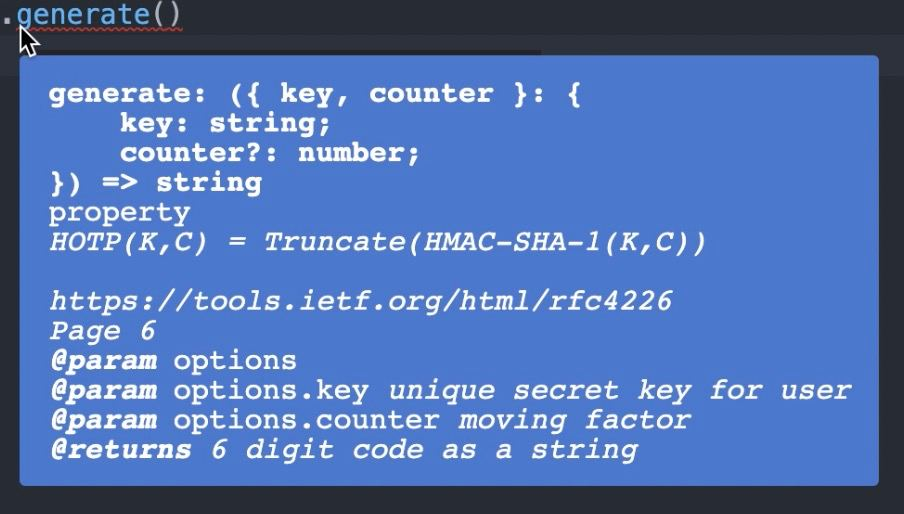
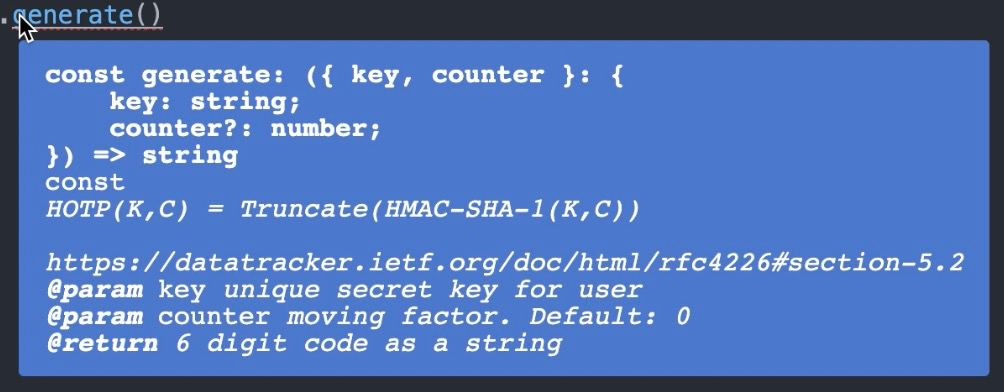
some v2 improvements

Changed region(s): [[0.0, 0.0, 0.9912, 0.9796]]

diff --git a/lib/hotp.ts b/lib/hotp.ts
@@ -1,10 +1,10 @@
 import { createHmac, timingSafeEqual } from 'crypto';
 
 /**
- * https://tools.ietf.org/html/rfc4226 page 5
+ * https://datatracker.ietf.org/doc/html/rfc4226#section-5.1
  *
- * @param   8-byte counter value, the moving factor
- * @returns buffer
+ * @param  8-byte counter value, the moving factor
+ * @return buffer
  */
 const calcCounter = (value: number) => {
   // <Buffer 00 00 00 00 00 00 00 00>
@@ -18,15 +18,13 @@ const calcCounter = (value: number) => {
 /**
  * HOTP(K,C) = Truncate(HMAC-SHA-1(K,C))
  *
- * https://tools.ietf.org/html/rfc4226
- * Page 6
+ * https://datatracker.ietf.org/doc/html/rfc4226#section-5.2
  *
- * @param options
- * @param options.key unique secret key for user
- * @param [options.counter=0] moving factor
- * @returns 6 digit code as a string
+ * @param key     unique secret key for user
+ * @param counter moving factor. Default: 0
+ * @return 6 digit code as a string
  */
-export const generateHOTP = ({ key, counter = 0 }: {
+export const generate = ({ key, counter = 0 }: {
   key: string,
   counter?: number,
 }) => {
@@ -54,15 +52,19 @@ export const generateHOTP = ({ key, counter = 0 }: {
 };
 
 /**
- * @param options
- * @param options.token       code, provided by user
- * @param options.key         unique secret key for user
- * @param [options.window=1]  counter values window
- * @param [options.counter=0] moving factor
- * @returns number or null
+ * https://datatracker.ietf.org/doc/html/rfc4226#section-7.2
+ *
+ * @param token   code, provided by user
+ * @param key     unique secret key for user
+ * @param window  counter values window. Default: 1
+ * @param counter moving factor. Default: 0
+ * @return null if nothing found or number between -window to +window if same code in steps found
  */
-export const verifyHOTP = ({
-  token, key, window = 1, counter = 0,
+export const validate = ({
+  token,
+  key,
+  window = 1,
+  counter = 0,
 }: {
   token: string,
   key: string,
@@ -74,7 +76,7 @@ export const verifyHOTP = ({
   for (let i = counter - window; i <= counter + window; ++i) {
     redefCounter = i;
 
-    const generateToken = generateHOTP({ key, counter: redefCounter });
+    const generateToken = generate({ key, counter: redefCounter });
 
     if (timingSafeEqual(Buffer.from(token), Buffer.from(generateToken))) {
       return i - counter;

diff --git a/lib/totp.d.ts b/lib/totp.d.ts
@@ -1,5 +1,3 @@
-import * as HOTP from './hotp';
-
 /**
  * TOTP = HOTP(K, T)
  *
@@ -9,18 +7,10 @@ import * as HOTP from './hotp';
  * @param time time-step in seconds (default recomended). Default: 30
  * @return 6 digit code as a string
  */
-export const generate = ({ key, time = 30 }: {
-  key: string,
-  time?: number,
-}) => {
-  const result = HOTP.generate({
-    key,
-    counter: Math.floor(Date.now() / 1000 / time),
-  });
-
-  return result;
-};
-
+export declare const generate: ({ key, time }: {
+    key: string;
+    time?: number;
+}) => string;
 /**
  * https://datatracker.ietf.org/doc/html/rfc6238#section-5.2
  *
@@ -30,20 +20,9 @@ export const generate = ({ key, time = 30 }: {
  * @param  time   time-step in seconds (default is recomended). Default: 30
  * @return null if nothing found or number between -window to +window if same code in steps found
  */
-export const validate = ({
-  token, key, window = 1, time = 30,
-}: {
-  token: string,
-  key: string,
-  window?: number,
-  time?: number,
-}): number | null => {
-  const result = HOTP.validate({
-    token,
-    key,
-    window,
-    counter: Math.floor(Date.now() / 1000 / time),
-  });
-
-  return result;
-};
+export declare const validate: ({ token, key, window, time, }: {
+    token: string;
+    key: string;
+    window?: number;
+    time?: number;
+}) => number | null;

diff --git a/lib/hotp.d.ts b/lib/hotp.d.ts
@@ -1,0 +1,28 @@
+/**
+ * HOTP(K,C) = Truncate(HMAC-SHA-1(K,C))
+ *
+ * https://datatracker.ietf.org/doc/html/rfc4226#section-5.2
+ *
+ * @param key     unique secret key for user
+ * @param counter moving factor. Default: 0
+ * @return 6 digit code as a string
+ */
+export declare const generate: ({ key, counter }: {
+    key: string;
+    counter?: number;
+}) => string;
+/**
+ * https://datatracker.ietf.org/doc/html/rfc4226#section-7.2
+ *
+ * @param token   code, provided by user
+ * @param key     unique secret key for user
+ * @param window  counter values window. Default: 1
+ * @param counter moving factor. Default: 0
+ * @return null if nothing found or number between -window to +window if same code in steps found
+ */
+export declare const validate: ({ token, key, window, counter, }: {
+    token: string;
+    key: string;
+    window?: number;
+    counter?: number;
+}) => number | null;

diff --git a/lib/base32.ts b/lib/base32.ts
@@ -1,9 +1,10 @@
 /**
  * Base32 encoder without padding, thanks @LinusU
- * @param   secret
- * @returns base32 encoded secret
+ * @param   secret text to be encoded
+ * @return base32 encoded secret
  */
-export default (secret: string) => {
+// eslint-disable-next-line
+export const base32 = (secret: string) => {
   const alphabet = 'ABCDEFGHIJKLMNOPQRSTUVWXYZ234567';
 
   const buf = Buffer.from(secret);

diff --git a/lib/base32.d.ts b/lib/base32.d.ts
@@ -1,0 +1,6 @@
+/**
+ * Base32 encoder without padding, thanks @LinusU
+ * @param   secret text to be encoded
+ * @return base32 encoded secret
+ */
+export declare const base32: (secret: string) => string;

diff --git a/README.md b/README.md
@@ -1,4 +1,7 @@
-[<img src="https://img.shields.io/npm/v/2fa-hotp-totp">](https://www.npmjs.com/package/2fa-hotp-totp) [<img src="https://img.shields.io/npm/l/2fa-hotp-totp">](https://github.com/TABmk/2fa-hotp-totp/blob/master/LICENSE) [<img src="https://img.shields.io/npm/dm/2fa-hotp-totp">](https://www.npmjs.com/package/2fa-hotp-totp) [<img src="https://img.shields.io/bundlephobia/minzip/2fa-hotp-totp">](https://www.npmjs.com/package/2fa-hotp-totp)
+[<img src="https://img.shields.io/npm/v/2fa-hotp-totp">](https://www.npmjs.com/package/2fa-hotp-totp) [<img src="https://img.shields.io/npm/l/2fa-hotp-totp">](https://github.com/TABmk/2fa-hotp-totp/blob/master/LICENSE) <img src="https://badgen.net/npm/types/2fa-hotp-totp">
+
+<img src="https://badgen.net/npm/dt/2fa-hotp-totp">
+<img src="https://badgen.net/npm/dm/2fa-hotp-totp">
 
 __Help__ [<img src="https://img.shields.io/github/issues/tabmk/2fa-hotp-totp">](https://github.com/TABmk/2fa-hotp-totp/issues?q=is%3Aopen+is%3Aissue) [<img src="https://img.shields.io/github/issues-pr/tabmk/2fa-hotp-totp">](https://github.com/TABmk/2fa-hotp-totp/pulls?q=is%3Aopen+is%3Apr)
 
@@ -12,15 +15,17 @@ __Help__ [<img src="https://img.shields.io/github/issues/tabmk/2fa-hotp-totp">](
 
 # __2FA-HOTP-TOTP__
 
-Zero-dependency, **<1kB gzipped** [<img src="https://img.shields.io/bundlephobia/minzip/2fa-hotp-totp">](https://www.npmjs.com/package/2fa-hotp-totp)
+Zero-dependency <img src="https://badgen.net/bundlephobia/dependency-count/2fa-hotp-totp">
+
+ v2 and still __<1kB gzipped__ <img src="https://badgen.net/bundlephobia/minzip/2fa-hotp-totp">
 
 My implementation of 2FA HOTP/TOTP algorithms in TypeScript + base32 encoder for creating links for authenticator programs like [Google Authenticator](https://play.google.com/store/apps/details?id=com.google.android.apps.authenticator2)
 
 [Read more](https://github.com/google/google-authenticator/wiki/Key-Uri-Format) about `otpauth://` links
 ###### Specifications:
-- HOTP - [RFC 4226](https://tools.ietf.org/html/rfc4226)
-- TOTP - [RFC 6238](https://tools.ietf.org/html/rfc6238)
-- Base32 - [RFC 4648](https://tools.ietf.org/html/rfc4648) (without paddings, thanks to [@LinusU](https://github.com/LinusU))
+- HOTP - [RFC 4226](https://datatracker.ietf.org/doc/html/rfc4226)
+- TOTP - [RFC 6238](https://datatracker.ietf.org/doc/html/rfc6238)
+- Base32 - [RFC 4648](https://datatracker.ietf.org/doc/html/rfc4648) (without paddings, thanks to [@LinusU](https://github.com/LinusU))
 
 ---
 
@@ -51,20 +56,20 @@ And due I want to keep this package <1kB gzipped, I'll move types to DefinitelyT
 ## __Install__
 
 ```
-npm i 2FA-HOTP-TOTP
+npm i 2fa-hotp-totp
 
     or
 
-yarn add 2FA-HOTP-TOTP
+yarn add 2fa-hotp-totp
 ```
 
 ## __Usage__
 
 #### Import
 ```
-import { HOTP, TOTP, base32 } from '2FA-HOTP-TOTP';
+import { HOTP, TOTP, base32 } from '2fa-hotp-totp';
       OR
-const { HOTP, TOTP, base32 } = require('2FA-HOTP-TOTP');
+const { HOTP, TOTP, base32 } = require('2fa-hotp-totp');
 ```
 #### HOTP
 ###### Generate
@@ -122,7 +127,7 @@ base32('test');
 *All code also covered with JSDoc with links to specifications and its pages*
 
 #### HOTP
-Implementation of [RFC 4226](https://tools.ietf.org/html/rfc4226)
+Implementation of [RFC 4226](https://datatracker.ietf.org/doc/html/rfc4226)
 
 *HOTP(K,C) = Truncate(HMAC-SHA-1(K,C))*
 
@@ -132,7 +137,7 @@ Arguments (object):
 |obj.*|Required|Description|Default|
 |---|---|---|---|
 |`key`|✅|unique secret key for user||
-|`counter`|❌|moving factor ([read page 6](https://tools.ietf.org/html/rfc4226))|0|
+|`counter`|❌|moving factor ([read page 6](https://datatracker.ietf.org/doc/html/rfc4226))|0|
 
 
 Returns **string** of 6 digit, because it must be always 6 digit length and first can be zero
@@ -145,7 +150,7 @@ Arguments (object):
 |`token`|✅|code, provided by user||
 |`key`|✅|unique secret key for user||
 |`window`|❌|counter values window|1|
-|`counter`|❌|moving factor ([read page 6](https://tools.ietf.org/html/rfc4226))|0|
+|`counter`|❌|moving factor ([read page 6](https://datatracker.ietf.org/doc/html/rfc4226))|0|
 
 Returns **null** if nothing found or number between `-window to +window` if same code in steps found
 
@@ -159,7 +164,7 @@ One more example with time-step 30 sec:
 - window 1 = `04:19:30 - 04:20:00`, `04:20:00 - 04:20:30` and `04:20:30 - 04:21:00` all steps codes (-1, 0, 1) checked
 
 #### TOTP
-Implementation of [RFC 6238](https://tools.ietf.org/html/rfc6238)
+Implementation of [RFC 6238](https://datatracker.ietf.org/doc/html/rfc6238)
 
 *TOTP = HOTP(K, T)*
 
@@ -173,7 +178,7 @@ Arguments (object):
 
 Returns **string** of 6 digit, because it must be always 6 digit length and first can be zero
 
-###### HOTP.validate
+###### TOTP.validate
 Arguments (object):
 
 |obj.*|Required|Description|Default|
